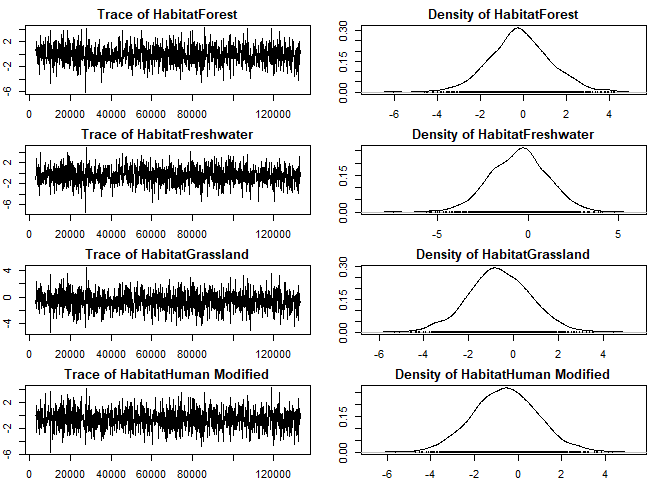
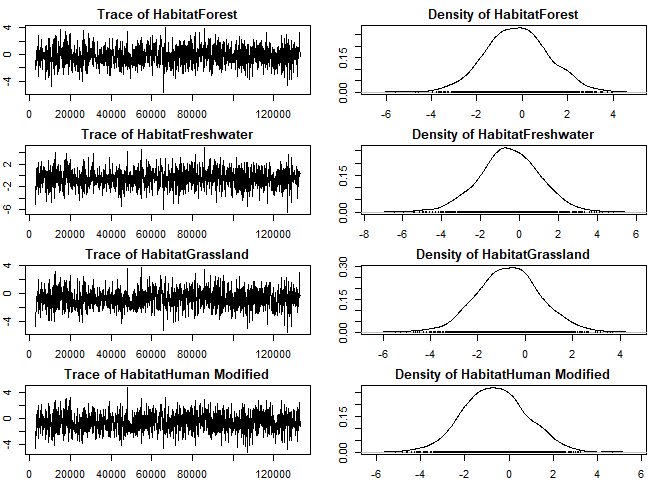
report update

diff --git a/model2host_model_report.md b/model2host_model_report.md
@@ -13,7 +13,7 @@ The raw code including the full process is available at:
 
 ## 1. Check the colinearity between predictors
 
-use **vif** fuction:
+use `vif` fuction:
 
 ``` r
 vif(lmer(Npositive ~ scale(Temp)+scale(Prec)+
@@ -47,10 +47,8 @@ pathogen[12]
 
     ## [1] "Salmonella"
 
-The model: model = MCMCglmm(cbind(Npositive,Ntested-Npositive) \~
-scale(Temp)+scale(Prec)+ scale(Clutch_MEAN)+scale(Maximum.longevity)+
-scale(Mass)+Migration+Habitat, random=\~animal, pedigree = phy, family =
-“multinomial2”, data=df, nitt=133000, burnin=3000, thin=100)
+The model:
+`model = MCMCglmm(cbind(Npositive,Ntested-Npositive) ~ scale(Temp)+scale(Prec)+                    scale(Clutch_MEAN)+scale(Maximum.longevity)+                    scale(Mass)+Migration+Habitat,                   random=~animal,                   pedigree = phy,                  family =  "multinomial2",                  data=df,                  nitt=133000,                   burnin=3000,                   thin=100)`
 
 ``` r
 summary(model)
@@ -61,34 +59,34 @@ summary(model)
     ##  Thinning interval  = 100
     ##  Sample size  = 1300 
     ## 
-    ##  DIC: 7145.674 
+    ##  DIC: 7145.82 
     ## 
     ##  G-structure:  ~animal
     ## 
     ##        post.mean l-95% CI u-95% CI eff.samp
-    ## animal     3.658   0.4399    7.766    319.7
+    ## animal     3.615   0.5422    7.809    299.8
     ## 
     ##  R-structure:  ~units
     ## 
     ##       post.mean l-95% CI u-95% CI eff.samp
-    ## units     2.815    1.664    4.068     1178
+    ## units     2.785    1.777    4.096     1300
     ## 
     ##  Location effects: cbind(Npositive, Ntested - Npositive) ~ scale(Temp) + scale(Prec) + scale(Clutch_MEAN) + scale(Maximum.longevity) + scale(Mass) + Migration + Habitat 
     ## 
     ##                           post.mean l-95% CI u-95% CI eff.samp   pMCMC    
-    ## (Intercept)                 -5.5320  -8.9130  -1.9955     1300 0.00154 ** 
-    ## scale(Temp)                  0.8947   0.4034   1.4043     1096 < 8e-04 ***
-    ## scale(Prec)                  0.1924  -0.1857   0.5072     1300 0.27077    
-    ## scale(Clutch_MEAN)          -0.4316  -1.1540   0.3081     1320 0.25385    
-    ## scale(Maximum.longevity)    -0.1106  -0.7365   0.5101     1300 0.75077    
-    ## scale(Mass)                  0.6127   0.1337   1.0592     1196 0.00923 ** 
-    ## MigrationPartialMigratory    1.6056   0.1476   2.9334     1300 0.02000 *  
-    ## MigrationSedentary           1.5858   0.2684   3.0786     1037 0.02308 *  
-    ## HabitatForest               -0.1623  -2.8446   2.6952     1300 0.86154    
-    ## HabitatFreshwater           -0.5096  -3.6007   2.5580     1300 0.74462    
-    ## HabitatGrassland            -0.6440  -3.6130   1.8203     1300 0.63538    
-    ## HabitatHuman Modified       -0.5767  -3.5963   2.2458     1300 0.69231    
-    ## HabitatMarine               -1.3648  -4.6519   1.7778     1300 0.42308    
+    ## (Intercept)                -5.36566 -8.81602 -2.26305     1300 0.00308 ** 
+    ## scale(Temp)                 0.89353  0.43221  1.41726     1300 < 8e-04 ***
+    ## scale(Prec)                 0.20905 -0.12564  0.52075     1976 0.21846    
+    ## scale(Clutch_MEAN)         -0.41312 -1.11670  0.33288     1300 0.23231    
+    ## scale(Maximum.longevity)   -0.09220 -0.73404  0.50795     1537 0.79538    
+    ## scale(Mass)                 0.60330  0.10430  1.03104     1446 0.01385 *  
+    ## MigrationPartialMigratory   1.55723  0.17519  2.81607     1008 0.01538 *  
+    ## MigrationSedentary          1.56183  0.08332  3.05943      997 0.02769 *  
+    ## HabitatForest              -0.22546 -2.84277  2.48310     1300 0.86769    
+    ## HabitatFreshwater          -0.52682 -3.58697  2.53493     1432 0.73846    
+    ## HabitatGrassland           -0.69515 -3.25141  1.91756     1300 0.58308    
+    ## HabitatHuman Modified      -0.62629 -3.43626  2.04129     1300 0.64462    
+    ## HabitatMarine              -1.39958 -4.45430  2.04821     1300 0.39846    
     ## ---
     ## Signif. codes:  0 '***' 0.001 '**' 0.01 '*' 0.05 '.' 0.1 ' ' 1
 
@@ -118,4 +116,4 @@ Again mixed well - a little bit pattern in animal (species), OK?
 R2(model)
 ```
 
-    ## [1] 0.666
+    ## [1] 0.665
